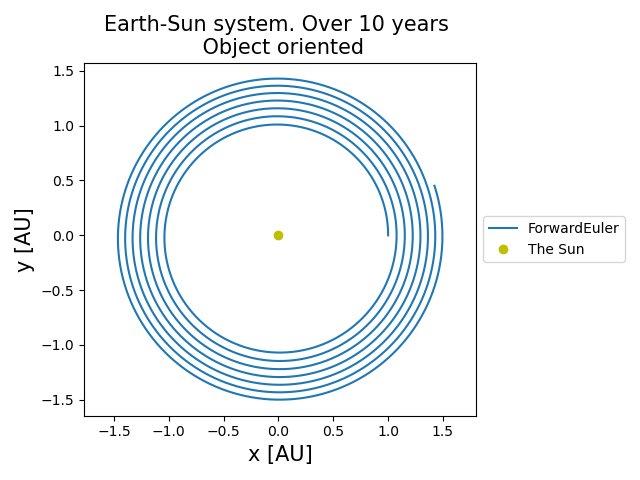
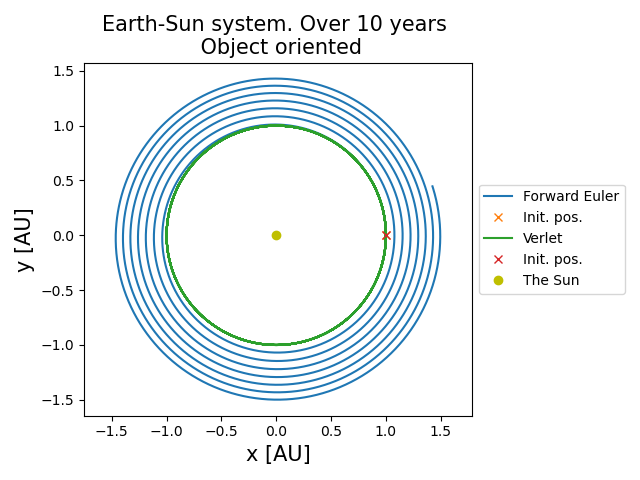
main.py updates

diff --git a/Project3/Solver_K.py b/Project3/Solver_K.py
@@ -1,0 +1,142 @@
+import os, sys
+import pandas            as pd
+import numpy             as np
+import matplotlib.pyplot as plt
+
+import functions         as func
+
+# -----------------------------------------------------------------------------
+
+class Solver:
+    """
+    Class for solving a system of two coupled Ordinary Differential Equations (ODEs).
+    """
+    def __init__(self, f, r0, v0, Np, T, n):
+        """
+        f: Right-hand side of one of the equations, dv/dv = f(r, dr/dt, t)
+        r0: Initial positions,  x   y  [2, nr_planets]
+        v0: Initial velocities, vx, vy [2, nr_planets]
+        Np: Number of bodies.
+        ts: Array with time points.
+        """
+
+        #check if f is a callable function
+        if not callable(f):
+            raise TypeError("ERROR: f is %s, not a function." % type(f))
+        self.f = lambda u,t: np.asarray(f(u, t))
+
+        #initial positions and velocities
+        self.r0 = r0
+        self.v0 = v0
+
+        #number of planets
+        self.Np = int(Np)
+
+        #time array
+        self.T = T; self.n = n
+        self.ts = np.linspace(0, T, n+1)
+
+        #position matrix
+        self.r = np.zeros([2, self.ts.size, self.Np])  #[x or y, time step, planet]
+
+        #velocity matrix
+        self.v = np.zeros([2, self.ts.size, self.Np])  #[vs or vy, time step, planet]
+
+    def solve(self, method):
+        """
+        Solves the system of ODEs using either Forward Euler or Velocity Verlet
+        methods.
+        method: string object with name of desired method.
+        """
+        #initalize r and v matrices
+
+        print(self.r0)
+        print(self.r[:,0,:])
+
+        self.r[:,0,:] = self.r0
+        self.v[:,0,:] = self.v0
+
+        #size of time step (use as argument instead of T or n?)
+        dt = self.ts[1] - self.ts[0]
+        #dt = 1e-3
+
+        #time loop
+        for k in range(self.n-1):
+            self.k = k  #current index (in time)
+            if method == "Euler":
+                self.v[:,k+1,:] = self.v[:,k,:] + self.f(self.r[:,k,:], self.ts[k])*dt
+                self.r[:,k+1,:] = self.r[:,k,:] + self.v[:,k,:]*dt
+
+            if method == "Verlet":
+                self.r[:,k+1,:] = self.r[:,k,:] + self.v[:,k,:]*dt + 0.5*self.f(self.r[:,k,:], self.ts[k])*dt**2
+                self.v[:,k+1,:] = self.v[:,k,:] + 0.5*(self.f(self.r[:,k,:], self.ts[k]) + self.f(self.r[:,k+1,:], self.ts[k]))*dt
+
+        return self.r, self.v
+
+
+
+
+if __name__ == '__main__':
+    def a(r, t):
+        """
+        right hand side of dv/dt = -GM/r^2
+        Equation derived from Newtonian mechanics
+        F = ma
+        F = -GMm/r^2
+        """
+        #M_sun   = 1.989e30              # [kg]
+        GM      = 4*np.pi**2            # G*M_sun, Astro units, [AU^3/yr^2]
+        unit_r  = r/np.linalg.norm(r)   # Unit vector pointing from sun to Earth
+        acc     = -GM/np.linalg.norm(r)**2*unit_r
+
+        return acc
+
+    #init_pos = [1 , 0]     #[AU]
+    #init_vel = [0, 2*np.pi]  #[AU/yr]
+
+    T = 10        #[yr]
+    n = int(1e4)  #nr of time steps
+    n_planet = 1
+
+    #init_pos = np.reshape(init_pos, [2,1])
+    #init_vel = np.reshape(init_vel, [2,1])
+
+    #og lese fra inn fil
+    if n_planet == 1:
+        init_pos = np.array([[1,0]])
+        init_vel = np.array([[0,2*np.pi]])
+
+    elif n_planet == 2: # Funker ikke!!!
+        init_pos = np.array([[1,0], [2,0]])
+        init_vel = np.array([[0,2*np.pi], [0,1]])
+
+    init_pos = np.transpose(init_pos)
+    init_vel = np.transpose(init_vel)
+
+    for i in range(n_planet):
+        solver1 = Solver(a, init_pos, init_vel, i, T, n)
+        solver2 = Solver(a, init_pos, init_vel, i, T, n)
+        pos_E, vel_E = solver1.solve(method = "Euler")
+        pos_V, vel_V = solver2.solve(method = "Verlet")
+
+        plt.plot(pos_E[0,:-1,0], pos_E[1,:-1,0], label="Euler")
+        plt.plot(pos_E[0,0,0], pos_E[1,0,0], "x")
+        plt.plot(pos_V[0,:-1,0], pos_V[1,:-1,0], label="Verlet")
+        plt.plot(pos_V[0,0,0], pos_V[1,0,0], "x")
+
+    #plt.plot(pos_V[0,0,1], pos_V[1,0,1], "x", color="red",)
+    #plt.plot(pos_V[0,:-1,1], pos_V[1,:-1,1], color="red")
+    #plt.axis([-2,2, -2,2])
+    plt.axis('equal')
+    plt.legend()
+    plt.show()
+
+
+
+    #using the class
+    '''
+    solver1 = Solver(a, init_pos, init_vel, n_planet, T, n)
+    solver2 = Solver(a, init_pos, init_vel, n_planet, T, n)
+    pos_E, vel_E = solver1.solve(method = "Euler")
+    pos_V, vel_V = solver2.solve(method = "Verlet")
+    '''

diff --git a/Project3/main.py b/Project3/main.py
@@ -1,4 +1,3 @@
-
 """
 Main program for FYS4150 - Project 3: Solar system
 """
@@ -9,7 +8,6 @@ import matplotlib.pyplot    as plt
 
 # Import python programs
 import functions            as func
-import SolarSystem_copy          ## ???
 from Solver import Solver
 #------------------------------------------------------------------------------
 '''
@@ -76,6 +74,7 @@ if __name__ == '__main__':
     elif ex_3c == True:
         print("Earth-Sun system in 2D. Object oriented (we think...)")
 
+        # Denne maa inn i Solver...?
         def a(r, t):
             """
             Right-hand-side of the ODE dv/dt = -GM/r^2.
@@ -84,31 +83,44 @@ if __name__ == '__main__':
             kan kanskje vaere i func?
             """
             unit_r = r/np.linalg.norm(r)
-            acceleration = -GM/np.linalg.norm(r)**2*unit_r
-            return acceleration
+            acc    = -GM/np.linalg.norm(r)**2*unit_r
+            return acc
 
-        init_pos = [1 , 0]  #[AU]
-        init_vel = [0, 2*np.pi]   #[AU/yr] ??
+
+        T  = 10  #[yr]
+        dt = 1e-3
+        n  = int(10e3)
+        t  = np.linspace(0, T, n+1)
+        Np = 1
+
+        M_earth = 5.972e24  #[kg]
+
+        init_pos = np.array([[1,0]])            # [AU]
+        init_vel = np.array([[0,2*np.pi]])      # [?]
+
+        init_pos = np.transpose(init_pos)
+        init_vel = np.transpose(init_vel)
 
         #using the class
-        #print(Solver)
-        solver = Solver(a)
-        solver.set_initial_conditions([init_pos, init_vel])
-        #print(solver.U0)
-        T = 10  #[yr]
-        dt = 1e-3
-        n = int(10e3)
-        t = np.linspace(0, T, n+1)
-        #print(t)
-        u, t = solver.solve(t, method="Euler")
-        pos_E = u[:,0:2]
-        vel = u[:,2:4]
+        solver1 = Solver(a, init_pos, init_vel, Np, T, n)
+        solver2 = Solver(a, init_pos, init_vel, Np, T, n)
+        pos_E, vel_E = solver1.solve(method = "Euler")
+        pos_V, vel_V = solver2.solve(method = "Verlet")
 
-        func.Plot_Sun_Earth_system(pos_E, label="ForwardEuler")
+        plt.plot(pos_E[0,:-1,0], pos_E[1,:-1,0], label="Forward Euler")
+        plt.plot(pos_E[0,0,0], pos_E[1,0,0], "x", label="Init. pos.")
+        plt.plot(pos_V[0,:-1,0], pos_V[1,:-1,0], label="Verlet")
+        plt.plot(pos_V[0,0,0], pos_V[1,0,0], "x", label="Init. pos.")
 
         plt.title("Earth-Sun system. Over %g years \n Object oriented" %T, fontsize=15)
         plt.plot(0,0,'yo', label='The Sun') # Plotte radius til solen kanskje..?
         plt.xlabel("x [AU]", fontsize=15); plt.ylabel("y [AU]", fontsize=15)
         plt.legend(loc='center left', bbox_to_anchor=(1, 0.5))
         plt.tight_layout()
+        plt.axis('equal')
         plt.savefig("Results/3b_Earth_Sun_system_object.png"); plt.show()
+
+        # Funker ikke helt...
+
+        func.Energy(M_earth, GM, vel_V, pos_V)
+        plt.savefig("Results/3c_Earth_Sun_system_energy_object.png"); plt.show()

diff --git a/Project3/3b.py b/Project3/3b.py
@@ -84,15 +84,5 @@ plt.tight_layout()
 plt.savefig("Results/3b_Earth_Sun_system.png"); plt.show()
 
 M_earth = 5.972e24  #[kg]
-K = 0.5*M_earth*np.linalg.norm(vel_V, axis=1)**2
-U = -(GM*M_earth)/np.linalg.norm(pos_V, axis=1)
-
-plt.figure()
-plt.plot(U, label="potential")
-plt.plot(K, label="kinetic")
-plt.plot(U+K, label="energy")
-
-plt.title("Energy", fontsize=15)
-plt.xlabel("...", fontsize=15); plt.ylabel("...", fontsize=15)
-plt.legend()
+func.Energy(M_earth, GM, vel_V, pos_V)
 plt.savefig("Results/3c_Earth_Sun_system_energy.png"); plt.show()

diff --git a/Project3/functions.py b/Project3/functions.py
@@ -64,6 +64,18 @@ def Verlet(G, ts, pos, vel, acc, dt):
     # Trenger kanskje ikke return..?
     return pos, vel
 
+def Energy(M_E, GM, vel, pos):
+    K = 0.5*M_E*np.linalg.norm(vel, axis=1)**2
+    U = -(GM*M_E)/np.linalg.norm(pos, axis=1)
+
+    plt.figure()
+    plt.plot(U, label="potential")
+    plt.plot(K, label="kinetic")
+    plt.plot(U+K, label="energy")
+
+    plt.title("Energy", fontsize=15)
+    plt.xlabel("...", fontsize=15); plt.ylabel("...", fontsize=15)
+    plt.legend()
 
 def Plot_Sun_Earth_system(pos, label=''):
 
